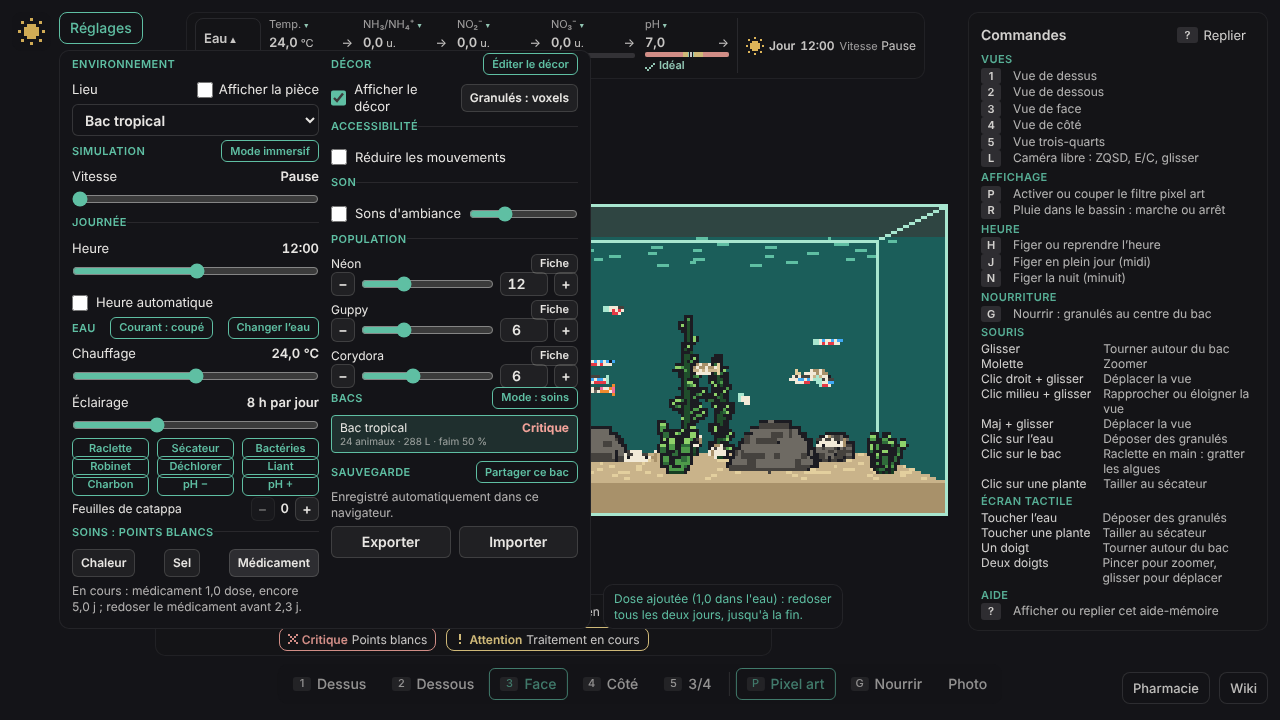
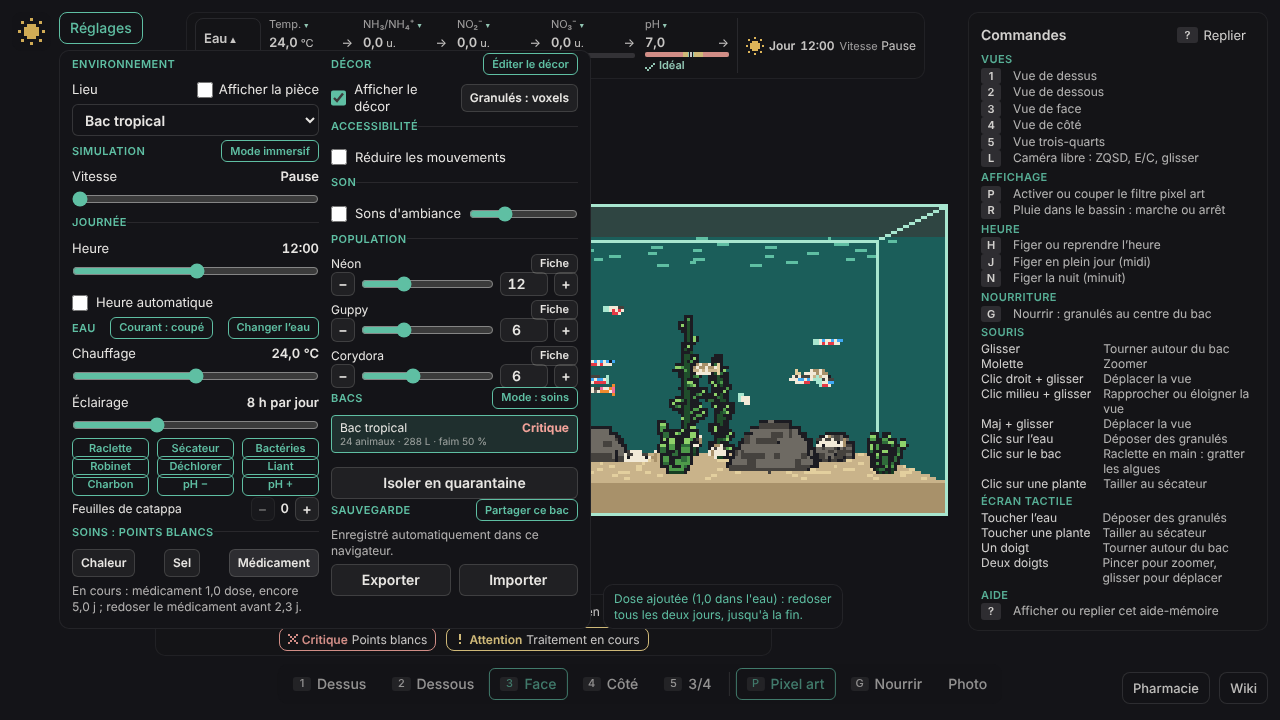
captures(c192): 5 angles

Changed region(s): [[0.25, 0.6417, 0.4688, 0.825], [0.375, 0.7944, 0.4375, 0.825]]

diff --git a/captures/latest/SOURCE.md b/captures/latest/SOURCE.md
@@ -1,8 +1,8 @@
-# Captures c191
+# Série c192
 
-- Branche : cycle/c191-effets-secondaires
-- PR : #558 (effets secondaires des traitements, #549)
-- Commit : ee600f5bbd9e5c6e0048a064bb5368d99e09d5ff
-- Graine : par défaut du contrat de capture
-- Date : 2026-11-10
-- Résultat : front, three-quarter, side, top, bottom identiques à la série précédente (octet pour octet) ; front-pharmacie nouvelle (avertissements).
+- Branche : cycle/c192-bac-de-quarantaine
+- PR : #559
+- Commit : 4dbc562
+- Graine : 42 (défaut des captures)
+- Temps : ~13 min (136 captures)
+- Bacs par défaut identiques à la série précédente (5 angles comparés octet à octet).

diff --git a/captures/c192/SOURCE.md b/captures/c192/SOURCE.md
@@ -1,0 +1,8 @@
+# Série c192
+
+- Branche : cycle/c192-bac-de-quarantaine
+- PR : #559
+- Commit : 4dbc562
+- Graine : 42 (défaut des captures)
+- Temps : ~13 min (136 captures)
+- Bacs par défaut identiques à la série précédente (5 angles comparés octet à octet).
